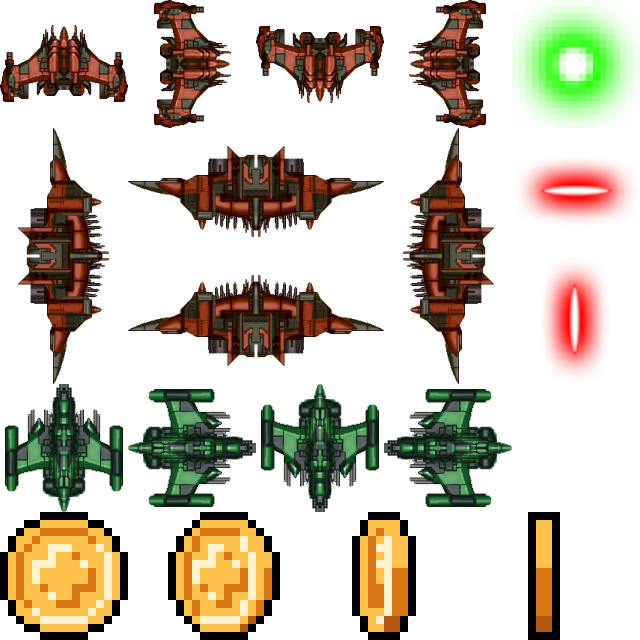
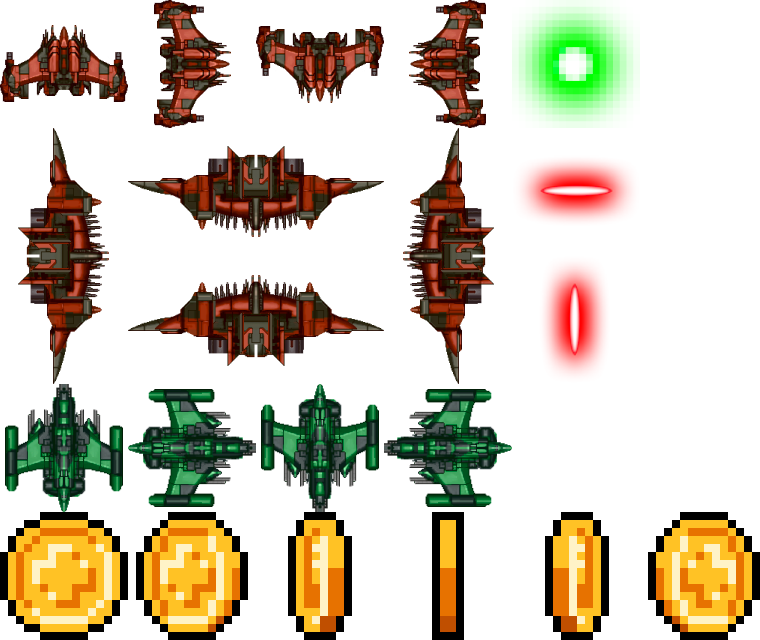
solarfox done, cleaning is requiered
Former-commit-id: 7debea40c60b3416f95e33142b5113d9be67a70d

diff --git a/games/solarfox/src/components/GameInstance.cpp b/games/solarfox/src/components/GameInstance.cpp
@@ -8,7 +8,7 @@
 #include "games/solarfox/include/components/GameInstance.hpp"
 
 GameInstance::GameInstance(int level, int score, IBuilder *b):
-_level(level), _score(score), _player(new Player(level, b))
+_level(level), _score(score), _nbCoins(0), _player(new Player(level, b))
 {
     if (!b->objectExists("BasicE")) {
         b->spriteInit("BasicE");
@@ -45,27 +45,20 @@ void GameInstance::setMap(IBuilder *b)
     b->textSetFont("Level", "SF_font");
     b->textSetColor("Level", b->hexToColor(0xFFFFFFFF));
 
-
+    for (int y = 0; y < 9; y++) {
+        for (int x = 0; x < 9; x++) {
+            if (rand() % 101 < (_level * 5 + 15 > 90? 90 : _level * 5 + 15)) {
+                _entities.push_back(new Coin({(VW(100) - VH(93)) / 2 + VH(15) + VH(7.5) * x, VH(15) + VH(7.5) * y}, b));
+                _nbCoins++;
+            }
+        }
+    }
 }
 
 void GameInstance::setEnemies(IBuilder *b)
 {
-    _entities.push_back(new BasicEnemy(_level, b));
-    _entities.push_back(new BasicEnemy(_level, b));
-    _entities.push_back(new BasicEnemy(_level, b));
-    _entities.push_back(new BasicEnemy(_level, b));
-    _entities.push_back(new BasicEnemy(_level, b));
-    _entities.push_back(new BasicEnemy(_level, b));
-    _entities.push_back(new BasicEnemy(_level, b));
-    _entities.push_back(new BasicEnemy(_level, b));
-    _entities.push_back(new BasicEnemy(_level, b));
-    _entities.push_back(new BasicEnemy(_level, b));
-    _entities.push_back(new BasicEnemy(_level, b));
-    _entities.push_back(new BasicEnemy(_level, b));
-    _entities.push_back(new BasicEnemy(_level, b));
-    _entities.push_back(new BasicEnemy(_level, b));
-    _entities.push_back(new BasicEnemy(_level, b));
-    _entities.push_back(new Coin({VH(50), VH(50)}, b));
+    for (int i = 1 + _level; i > 0; i--)
+        _entities.push_back(new BasicEnemy(_level, b));
 }
 
 void GameInstance::drawBackground(IBuilder *b, bool part)
@@ -113,9 +106,9 @@ GameState GameInstance::occurs(IBuilder *b)
 {
     BehaveReturn ret;
 
+    if (_nbCoins == 0)
+        return (GameState::SF_GS_WIN);
     drawBackground(b, true);
-    if (_player->draw(b) == false)
-        return (GameState::SF_GS_LOOSE);
     for (int i = 0; _entities.begin() + i != _entities.end(); i++) {
         if ((ret = _entities[i]->behave(this, b)) == B_END) {
             this->_entities.erase(this->_entities.begin() + i);
@@ -124,12 +117,16 @@ GameState GameInstance::occurs(IBuilder *b)
         else if (ret == B_EVENT)
             return(GameState::SF_GS_LOOSE);
     };
+    if (_player->draw(b) == false)
+        return (GameState::SF_GS_LOOSE);
     drawBackground(b, false);
     return (GameState::SF_GS_PLAYING);
 }
 
 GameInstance::~GameInstance()
 {
+    _entities.clear();
+    delete (_player);
 }
 
 void GameInstance::addEntity(IEntity *e)
@@ -144,6 +141,16 @@ Player *GameInstance::getPlayer()
 
 void GameInstance::incrementScore()
 {
-    _score += _level * 100 + (144 - _nbCoins) * 10;
+    _score += _level * 10 + (81 - _nbCoins);
     _nbCoins--;
+}
+
+int GameInstance::getLevel() const
+{
+    return (_level);
+}
+
+int GameInstance::getScore() const
+{
+    return (_score);
 }

diff --git a/games/solarfox/src/StartSolarfox.cpp b/games/solarfox/src/StartSolarfox.cpp
@@ -18,21 +18,29 @@ StartSolarfox::~StartSolarfox()
 
 void StartSolarfox::start(IBuilder *b)
 {
-    // b->loadAsset("games/solarfox/assets/octuple-max.ttf", "SF_font", AssetType::FONT);
-    // b->loadAsset("games/solarfox/assets/imgs/sheet.png", "SF_sheet", AssetType::SPRITE);
-    // b->loadAsset("games/solarfox/assets/imgs/space1.png", "Background1", AssetType::SPRITE);
-    // b->loadAsset("games/solarfox/assets/imgs/space2.png", "Background2", AssetType::SPRITE);
-    // b->loadAsset("games/solarfox/assets/imgs/space3.png", "Background3", AssetType::SPRITE);
-    // b->loadAsset("games/solarfox/assets/imgs/space4.png", "Background4", AssetType::SPRITE);
-    // b->loadAsset("games/solarfox/assets/imgs/space5.png", "Background5", AssetType::SPRITE);
-    // _gameInstance = new GameInstance(1, 0, b);
+    b->loadAsset("games/solarfox/assets/octuple-max.ttf", "SF_font", AssetType::FONT);
+    b->loadAsset("games/solarfox/assets/imgs/sheet.png", "SF_sheet", AssetType::SPRITE);
+    b->loadAsset("games/solarfox/assets/imgs/space1.png", "Background1", AssetType::SPRITE);
+    b->loadAsset("games/solarfox/assets/imgs/space2.png", "Background2", AssetType::SPRITE);
+    b->loadAsset("games/solarfox/assets/imgs/space3.png", "Background3", AssetType::SPRITE);
+    b->loadAsset("games/solarfox/assets/imgs/space4.png", "Background4", AssetType::SPRITE);
+    b->loadAsset("games/solarfox/assets/imgs/space5.png", "Background5", AssetType::SPRITE);
+    _gameInstance = new GameInstance(1, 0, b);
 }
 
 void StartSolarfox::update(IBuilder *b)
 {
-    // if (_solarFoxState == Instance::SF_GAME)
-    //     if (_gameInstance->occurs(b) == SF_GS_LOOSE)
-    //         _solarFoxState = Instance::SF_MENU;
+    GameState ret;
+    GameInstance *tmp;
+
+    if (_solarFoxState == Instance::SF_GAME)
+        if ((ret = _gameInstance->occurs(b)) == SF_GS_LOOSE)
+            _solarFoxState = Instance::SF_MENU;
+        else if (ret == SF_GS_WIN) {
+            tmp = new GameInstance(_gameInstance->getLevel() + 1, _gameInstance->getScore(), b);
+            delete (_gameInstance);
+            _gameInstance = tmp;
+        }
 }
 
 void StartSolarfox::finish(IBuilder *b)

diff --git a/games/solarfox/src/Player.cpp b/games/solarfox/src/Player.cpp
@@ -22,13 +22,13 @@ Player::~Player()
 
 void Player::setNewDir(IBuilder *b)
 {
-    if (_dir != Orientation::O_DOWN && b->getEvents().keyboardState[Key::Z] == InputState::CLICK)
+    if (_dir != Orientation::O_DOWN && b->getEvents().keyboardState[Key::UP] == InputState::CLICK)
         _dir = Orientation::O_UP;
-    else if (_dir != Orientation::O_UP && b->getEvents().keyboardState[Key::S] == InputState::CLICK)
+    else if (_dir != Orientation::O_UP && b->getEvents().keyboardState[Key::DOWN] == InputState::CLICK)
         _dir = Orientation::O_DOWN;
-    else if (_dir != Orientation::O_RIGHT && b->getEvents().keyboardState[Key::Q] == InputState::CLICK)
+    else if (_dir != Orientation::O_RIGHT && b->getEvents().keyboardState[Key::LEFT] == InputState::CLICK)
         _dir = Orientation::O_LEFT;
-    else if (_dir != Orientation::O_LEFT && b->getEvents().keyboardState[Key::D] == InputState::CLICK)
+    else if (_dir != Orientation::O_LEFT && b->getEvents().keyboardState[Key::RIGHT] == InputState::CLICK)
         _dir = Orientation::O_RIGHT;
 }
 
@@ -98,7 +98,7 @@ bool Player::shotCollide(Box body, IBuilder *b) {
 bool Player::draw(IBuilder *b)
 {
     setNewDir(b);
-    if (b->getEvents().keyboardState[Key::SPACE] == InputState::HOLD) {
+    if (b->getEvents().keyboardState[Key::A] == InputState::HOLD) {
         if (!updatePos((_speed + 3.0) * b->getEvents().deltaTime, b))
             return (false);
     } else {

diff --git a/games/solarfox/src/Coin.cpp b/games/solarfox/src/Coin.cpp
@@ -9,7 +9,7 @@
 #include "games/solarfox/include/components/GameInstance.hpp"
 
 Coin::Coin(Vector2 pos, IBuilder *b):
-_pos(pos), _size({VH(3), VH(3)}), _objectIdx("Coin")
+_pos(pos), _posF(0), _size({VH(3), VH(3)}), _objectIdx("Coin"), _time(b->getTime())
 {
 }
 
@@ -23,8 +23,17 @@ BehaveReturn Coin::behave(GameInstance *game, IBuilder *b)
         game->incrementScore();
         return (B_END);
     }
-    b->spriteSetSize(_objectIdx, _size, {0, 512, 128, 128});
+    if (b->getTime() - _time > 0.001) {
+        _posF = (_posF > 512) ? 0 : _posF + 128;
+        _time = b->getTime();
+    }
+    b->spriteSetSize(_objectIdx, _size, {_posF, 512, 128, 128});
     b->spriteSetPosition(_objectIdx, _pos);
     b->spriteDraw(_objectIdx);
     return (B_OK);
+}
+
+const std::string &Coin::getIdx() const
+{
+    return (_objectIdx);
 }

diff --git a/games/nibbler/src/StartNibbler.cpp b/games/nibbler/src/StartNibbler.cpp
@@ -26,7 +26,7 @@ StartNibbler::~StartNibbler()
 void StartNibbler::start(IBuilder *b)
 {
     srand(time(NULL));
-    setMap({VW(10), VH(10)}, {VW(80), VW(40)});
+    setMap({VW(10), VH(10)}, {VH(140), VH(70)});
     _scale = MW(2);
     int cols  = MW(100) / _scale;
     int lines = MH(100) / _scale;
@@ -61,7 +61,7 @@ void StartNibbler::start(IBuilder *b)
     b->spriteSetSprite("block", "SnakeSpritesheet");
     b->spriteSetSize("block", {_scale, _scale}, {0, 80, 16, 16});
     b->spriteSetPosition("block", {_map.x, _map.y});
-    
+
     b->spriteInit("border");
     b->spriteSetSprite("border", "SnakeSpritesheet");
     b->spriteSetSize("border", {_scale, _scale}, {16, 64, 16, 16});

diff --git a/games/solarfox/include/components/GameInstance.hpp b/games/solarfox/include/components/GameInstance.hpp
@@ -23,6 +23,8 @@ class GameInstance: public IComponent {
         void addEntity(IEntity *e);
         Player *getPlayer();
         void incrementScore();
+        int getLevel() const;
+        int getScore() const;
     protected:
         void setMap(IBuilder *b);
         void setEnemies(IBuilder *b);

diff --git a/games/solarfox/include/components/IComponent.hpp b/games/solarfox/include/components/IComponent.hpp
@@ -16,6 +16,8 @@ class IComponent {
         ~IComponent() = default;
 
         virtual GameState occurs(IBuilder *b) = 0;
+        virtual int getLevel() const = 0;
+        virtual int getScore() const = 0;
     protected:
     private:
 };

diff --git a/games/solarfox/include/Coin.hpp b/games/solarfox/include/Coin.hpp
@@ -21,8 +21,10 @@ class Coin: public IEntity {
     protected:
     private:
         Vector2 _pos;
+        float _posF;
         Vector2 _size;
         std::string _objectIdx;
+        time_t _time;
 };
 
 #endif /* !COIN_HPP_ */

diff --git a/core/src/ArcadeCore/Components/Menu.cpp b/core/src/ArcadeCore/Components/Menu.cpp
@@ -220,8 +220,6 @@ DLLoader<Start> *Menu::update(IBuilder *b)
         drawCarousel(b);
     else
         drawSettings(b);
-    std::cout << "a" << std::endl;
-    
     return (tmp);
 }
 
